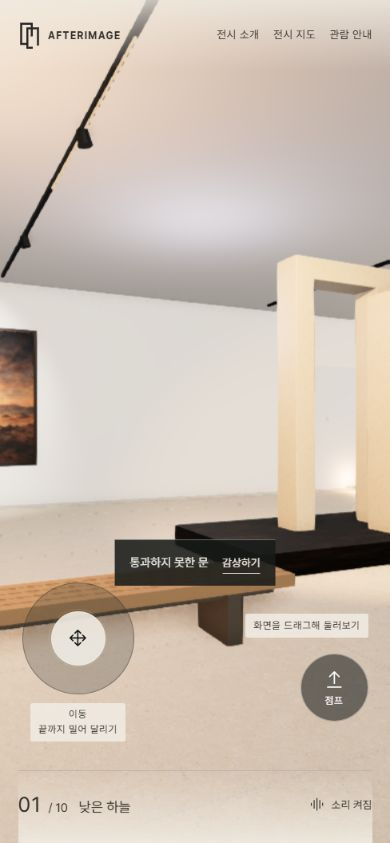
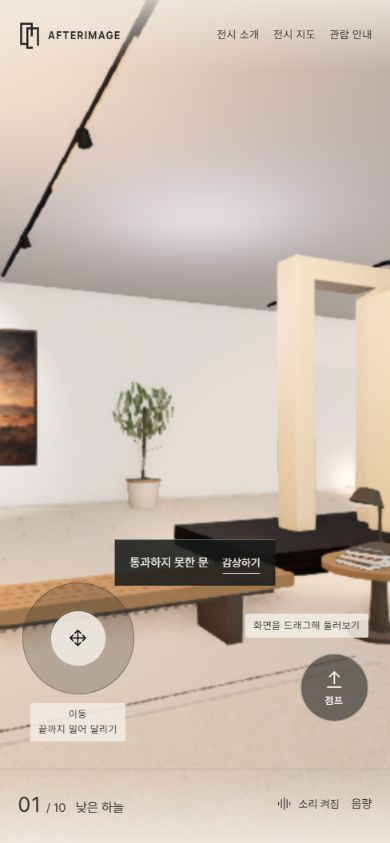
Enrich gallery rooms and corridors with plants and furnishings

diff --git a/src/spatial-furnishings.js b/src/spatial-furnishings.js
@@ -1,0 +1,188 @@
+import * as T from 'three';
+import {batchRoomArchitecture} from './static-room-batches';
+import {benchSeats} from './seating';
+
+const palettes=[0x92745a,0x71816b,0x977868,0x9e8765,0x718c94,0xb49f7d,0xa38b64,0x858874,0x87979a,0xa48b7e];
+const materialSets=new WeakMap();
+function decorMaterials(mats,index){
+ if(!materialSets.has(mats))materialSets.set(mats,new Map());
+ const cache=materialSets.get(mats),id=index%10;
+ if(!cache.has(id))cache.set(id,{
+  accent:new T.MeshStandardMaterial({color:palettes[id],roughness:.82}),
+  textile:new T.MeshStandardMaterial({color:id===4||id===8?0xaeb9b6:0xc7bbab,roughness:1}),
+  leaf:new T.MeshStandardMaterial({color:id===1?0x52754b:id===4||id===8?0x566d62:0x607149,roughness:.95,side:T.DoubleSide}),
+  paleLeaf:new T.MeshStandardMaterial({color:0x8a9570,roughness:.96,side:T.DoubleSide}),
+ });
+ return cache.get(id);
+}
+function groupAt(root,x,y,z,angle=0){const g=new T.Group();g.position.set(x,y,z);g.rotation.y=angle;root.add(g);return g;}
+function cylinder(root,r1,r2,h,x,y,z,material,segments=16){
+ const mesh=new T.Mesh(new T.CylinderGeometry(r1,r2,h,segments),material);mesh.position.set(x,y,z);mesh.receiveShadow=true;root.add(mesh);return mesh;
+}
+function rod(root,a,b,r,material){
+ const A=new T.Vector3(...a),B=new T.Vector3(...b),mesh=cylinder(root,r,r*.85,A.distanceTo(B),0,0,0,material,6);
+ mesh.position.copy(A).add(B).multiplyScalar(.5);mesh.quaternion.setFromUnitVectors(new T.Vector3(0,1,0),B.sub(A).normalize());return mesh;
+}
+function obstacle(obstacles,room,x,z,w,d){obstacles.push({x:room.x+x,z:room.z+z,w,d});}
+
+// Opaque shaped leaves avoid alpha sorting, texture downloads and extra lights.
+// The whole crown is a pair of instanced meshes, including the small plants.
+function foliage(root,style,height,radius,mats,decor,seed){
+ const shape=new T.Shape();shape.moveTo(0,0);
+ if(style==='reed'){shape.bezierCurveTo(-.09,.35,-.09,.7,0,1);shape.bezierCurveTo(.13,.66,.14,.32,0,0);}
+ else{shape.bezierCurveTo(-.34,.2,-.36,.63,0,1);shape.bezierCurveTo(.35,.67,.29,.22,0,0);}
+ const geometry=new T.ShapeGeometry(shape,3),count=style==='reed'?48:style==='fern'?64:112;
+ const leaves=[new T.InstancedMesh(geometry,decor.leaf,Math.ceil(count/2)),new T.InstancedMesh(geometry,decor.paleLeaf,Math.floor(count/2))],dummy=new T.Object3D();
+ const indices=[0,0];
+ for(let i=0;i<count;i++){
+  const angle=i*2.39996+seed*.4,t=(i%28)/27;
+  if(style==='reed'||style==='fern'){
+   const spread=radius*Math.sqrt((i%19)/18),length=height*(.56+(i%7)/15);
+   dummy.position.set(Math.cos(angle)*spread*.32,.02,Math.sin(angle)*spread*.32);
+   dummy.rotation.set(style==='fern'?.55+t*.9:.08+t*.46,angle,Math.sin(angle)*.35);
+   dummy.scale.set(style==='reed'?.22:.33,length,1);
+  }else{
+   const y=height*(.44+.53*t),spread=radius*Math.sqrt(Math.max(.08,1-Math.pow((t-.54)*1.7,2)))*(i%4===0?.52:1);
+   dummy.position.set(Math.cos(angle)*spread,y,Math.sin(angle)*spread);
+   dummy.rotation.set(Math.sin(angle)*.55,angle+.7,-.65+((i+seed)%9)/9*1.3);
+   dummy.scale.set(style==='olive'?.18:.37,style==='olive'?.34:.57,1);
+  }
+  dummy.updateMatrix();const variant=i%2;leaves[variant].setMatrixAt(indices[variant]++,dummy.matrix);
+ }
+ leaves.forEach(mesh=>{mesh.receiveShadow=true;mesh.frustumCulled=false;root.add(mesh);});
+ if(style==='olive'||style==='ficus'){
+  rod(root,[0,0,0],[.025,height*.83,.025],.035,mats.edge);
+  for(let i=0;i<7;i++){const a=i*2.39996+seed,y=height*(.38+i*.075);rod(root,[0,y*.8,0],[Math.cos(a)*radius*.76,y,Math.sin(a)*radius*.76],.013,mats.edge);}
+ }
+}
+function planter(root,x,z,style,mats,decor,cube,{scale=1,seed=0}={}){
+ const g=groupAt(root,x,0,z);g.name=`${style}-planter`;
+ const height=style==='fern'?.34:.66,radius=style==='fern'?.36:.4;
+ cylinder(g,radius,radius*.8,height,0,height/2,0,mats.ceramic);
+ cylinder(g,radius+.015,radius+.015,.045,0,height-.015,0,decor.accent);
+ cylinder(g,radius*.91,radius*.91,.018,0,height+.006,0,mats.soil);
+ const crown=groupAt(g,0,height+.02,0);
+ foliage(crown,style,style==='olive'?2.05:style==='ficus'?1.65:style==='reed'?1.13:.53,style==='olive'?.69:style==='ficus'?.72:.45,mats,decor,seed);
+ g.scale.setScalar(scale);batchRoomArchitecture(g);batchRoomArchitecture(crown);
+ return {group:g,width:(radius*2+.07)*scale,depth:(radius*2+.07)*scale};
+}
+function vase(root,x,y,z,size,material,mats,variant=0){
+ const profiles=[[[0,0],[.22,0],[.25,.12],[.2,.34],[.085,.46],[.09,.57]],[[0,0],[.13,0],[.18,.12],[.17,.33],[.14,.44]],[[0,0],[.2,0],[.27,.1],[.28,.16],[.18,.23]]];
+ const g=groupAt(root,x,y,z),points=profiles[variant%3].map(([r,h])=>new T.Vector2(r*size,h*size));
+ const mesh=new T.Mesh(new T.LatheGeometry(points,20),material);mesh.receiveShadow=true;g.add(mesh);
+ const [r,h]=profiles[variant%3].at(-1);cylinder(g,r*size*.8,r*size*.8,.009,0,h*size-.015,0,mats.soil);
+ return {group:g,height:h*size};
+}
+function books(root,x,y,z,cube,mats,decor,angle=0){
+ const g=groupAt(root,x,y,z,angle);
+ for(let i=0;i<3;i++){
+  const a=(i-1)*.12,cx=i*.025,cz=i*.016;
+  const part=(w,h,d,px,py,pz,mat)=>{const mesh=cube(g,w,h,d,cx+Math.cos(a)*px+Math.sin(a)*pz,i*.043+py,cz-Math.sin(a)*px+Math.cos(a)*pz,mat);mesh.rotation.y=a;};
+  part(.52,.035,.36,0,.018,0,mats.paper);
+  part(.54,.006,.38,0,.002,0,i===1?decor.accent:mats.edge);
+  part(.54,.006,.38,0,.038,0,i===1?decor.accent:mats.edge);
+  part(.012,.012,.24,-.16,.045,0,mats.paper);
+ }
+ batchRoomArchitecture(g);
+}
+function readingCorner(root,room,mats,decor,cube,obstacles){
+ const x=-1.55,z=2.6;
+ const rug=cube(root,4.65,.012,2.05,-4.35,.007,2.05,decor.textile);rug.castShadow=false;
+ for(const offset of [-.88,.88]){const border=cube(root,4.5,.002,.018,-4.35,.014,2.05+offset,mats.edge);border.castShadow=false;}
+ cylinder(root,.5,.5,.055,x,.61,z,mats.oak);cylinder(root,.055,.085,.57,x,.305,z,mats.edge);cylinder(root,.27,.27,.035,x,.025,z,mats.edge);
+ obstacle(obstacles,room,x,z,1.05,1.05);
+ books(root,x-.1,.64,z+.04,cube,mats,decor,.22);
+ // A small fixture glows through a basic material; it is not a GPU light.
+ const lamp=groupAt(root,x+.18,.64,z-.18);cylinder(lamp,.11,.11,.035,0,.018,0,mats.edge);
+ rod(lamp,[0,.03,0],[0,.48,0],.013,mats.edge);rod(lamp,[0,.48,0],[-.14,.56,0],.013,mats.edge);
+ const shade=cylinder(lamp,.09,.16,.14,-.14,.54,0,mats.edge);shade.rotation.z=-.28;
+ cylinder(lamp,.13,.13,.009,-.14,.468,0,mats.light);
+ batchRoomArchitecture(lamp);
+}
+function cabinet(root,room,mats,decor,cube,obstacles){
+ const side=![2,4,7,9].includes(room.id),x=side?room.w/2-.87:room.w/2-2.35,z=side?-4.45:room.d/2-.84,angle=side?Math.PI/2:0;
+ const g=groupAt(root,x,0,z,angle);g.name='material-and-catalogue-console';
+ const length=room.id%3===1?2.7:2.35,top=room.id%3===2?.84:1.02;
+ if(room.id%3===0){
+  cube(g,length,.14,.64,0,top-.07,0,mats.oak);
+  for(const px of [-length/2+.12,length/2-.12])cube(g,.07,top-.14,.52,px,(top-.14)/2,0,mats.edge);
+  cube(g,length-.18,.07,.53,0,.24,0,mats.oak);
+ }else if(room.id%3===1){
+  cube(g,length,top,.66,0,top/2,0,mats.ceramic);cube(g,length+.08,.055,.72,0,top+.025,0,mats.oak);
+  for(let i=0;i<18;i++)cube(g,.042,top-.14,.025,-length/2+.1+i*(length-.2)/17,top/2,.348,mats.oak);
+ }else{
+  for(const px of [-length/2+.22,length/2-.22])cube(g,.32,top-.12,.54,px,(top-.12)/2,0,mats.ceramic);
+  cube(g,length,.12,.68,0,top-.06,0,mats.ceramic);
+ }
+ books(g,-length*.27,top+.055,.01,cube,mats,decor,-.15);
+ const tall=vase(g,length*.19,top+.055,-.03,.85,decor.accent,mats,room.id%3);
+ vase(g,length*.36,top+.055,.03,.6,mats.ceramic,mats,(room.id+1)%3);
+ if(room.id%2===0){
+  const stem=groupAt(tall.group,0,tall.height,0);rod(stem,[0,0,0],[.1,.66,0],.007,mats.edge);rod(stem,[.05,.28,0],[-.15,.5,.035],.006,mats.edge);
+  batchRoomArchitecture(stem);
+ }else{
+  const sample=cube(g,.38,.075,.32,.1,top+.1,.06,mats.stone);sample.rotation.y=.25;
+ }
+ batchRoomArchitecture(g);
+ obstacle(obstacles,room,x,z,side?.76:length+.08,side?length+.08:.76);
+}
+
+export function furnishRoom(root,room,mats,cube,obstacles){
+ const decor=decorMaterials(mats,room.id),styles=['olive','reed','olive','ficus','olive','ficus','olive','ficus','reed','olive'];
+ readingCorner(root,room,mats,decor,cube,obstacles);
+ cabinet(root,room,mats,decor,cube,obstacles);
+ const hasNorthDoor=[1,2,4,7,8].includes(room.id);
+ const x=hasNorthDoor?room.w/2-1.3:-.35,z=-room.d/2+1.55;
+ const tall=planter(root,x,z,styles[room.id],mats,decor,cube,{scale:room.id===3?.86:1,seed:room.id});
+ obstacle(obstacles,room,x,z,tall.width,tall.depth);
+ const backX=-room.w/2+1.15,backZ=room.d/2-1.1;
+ const low=planter(root,backX,backZ,room.id%3===1?'reed':'fern',mats,decor,cube,{scale:room.id%3===1?.65:.95,seed:room.id+9});
+ obstacle(obstacles,room,backX,backZ,low.width,low.depth);
+}
+
+function passageRelief(root,x,z,alongX,length,side,index,mats,decor,cube){
+ const angle=alongX?(side===1?Math.PI:0):(side===1?-Math.PI/2:Math.PI/2);
+ const g=groupAt(root,x,1.98,z,angle);g.name='passage-material-study';
+ const width=Math.min(2.45,length-.65);
+ cube(g,width,1.42,.075,0,0,0,mats.edge);cube(g,width-.08,1.34,.055,0,0,.06,mats.paper);
+ for(let i=0;i<5;i++){
+  const h=.72+Math.sin(i*.8+index)*.26,bar=cube(g,.17,h,.065,(i-2)*width/7,Math.cos(i*.6+index)*.09,.13,i%2?mats.ceramic:decor.accent);bar.rotation.z=(i-2)*.045;
+ }
+ cube(g,width+.08,.065,.23,0,-.91,.08,mats.oak);
+ vase(g,-width*.26,-.875,.12,.47,mats.ceramic,mats,index%3);
+ vase(g,width*.22,-.875,.12,.6,decor.accent,mats,(index+1)%3);
+ batchRoomArchitecture(g);
+}
+
+export function furnishPassage(root,passage,mats,cube,obstacles,seats,index){
+ const decor=decorMaterials(mats,index),decoration=new T.Group();decoration.name=`passage-furnishings-${passage.a}-${passage.b}`;root.add(decoration);
+ let longest;
+ for(let i=0;i<passage.points.length-1;i++){
+  const A=passage.points[i],B=passage.points[i+1],alongX=A[1]===B[1],length=Math.hypot(B[0]-A[0],B[1]-A[1]),trimStart=i?2:0,trimEnd=i<passage.points.length-2?2:0,span=length-trimStart-trimEnd;
+  const sign=alongX?Math.sign(B[0]-A[0]):Math.sign(B[1]-A[1]),offset=(trimStart-trimEnd)*sign/2;
+  const x=(A[0]+B[0])/2+(alongX?offset:0),z=(A[1]+B[1])/2+(alongX?0:offset),side=index%2?1:-1;
+  // Work only within the solid wall segment; no objects at either elbow.
+  for(const s of [-1,1]){
+   if(alongX)cube(decoration,span-.35,1.02,.035,x,.52,z+s*1.84,mats.ceramic);
+   else cube(decoration,.035,1.02,span-.35,x+s*1.84,.52,z,mats.ceramic);
+   if(alongX)cube(decoration,span-.35,.035,.045,x,1.045,z+s*1.81,mats.oak);
+   else cube(decoration,.045,.035,span-.35,x+s*1.81,1.045,z,mats.oak);
+  }
+  passageRelief(decoration,x+(alongX?0:side*1.82),z+(alongX?side*1.82:0),alongX,span,side,index+i,mats,decor,cube);
+  if(!longest||span>longest.span)longest={x,z,alongX,span,side};
+ }
+ const {x,z,alongX,span,side}=longest;
+ const px=x+(alongX?Math.min(span*.25,1.8):-side*1.37),pz=z+(alongX?-side*1.37:Math.min(span*.25,1.8));
+ const plant=planter(decoration,px,pz,index%3===0?'ficus':'reed',mats,decor,cube,{scale:.65,seed:index+20});
+ obstacles.push({x:px,z:pz,w:plant.width,d:plant.depth});
+ if(span>=7){
+  // A shallow resting bench leaves more than three metres of clear width.
+  const bx=x+(alongX?-span*.23:side*1.49),bz=z+(alongX?side*1.49:-span*.23),angle=alongX?0:Math.PI/2,g=groupAt(decoration,bx,0,bz,angle);
+  for(const lx of [-.72,.72])cube(g,.12,.42,.42,lx,.21,0,mats.edge);
+  cube(g,1.9,.105,.48,0,.47,0,mats.oak);batchRoomArchitecture(g);
+  obstacles.push({x:bx,z:bz,w:alongX?1.9:.48,d:alongX?.48:1.9});
+  const start=seats.length,zone={id:passage.a,x:0,z:0};benchSeats(seats,zone,bx,bz,1.9,angle,[x,1.8,z]);seats.slice(start).forEach(seat=>{seat.zones=[passage.a,passage.b];});
+ }
+ batchRoomArchitecture(decoration);
+ return decoration;
+}

diff --git a/src/scene.js b/src/scene.js
@@ -99,7 +99,7 @@ export async function createExhibition(host,events,{signal}={}){
  const stairs=cinemaStairs(hall,mats,cube,obstacles,floorRects,label);
  const theatre=createCinema(scene,mats,cube,label,artLoader,floorRects,obstacles,seats);groups.push(theatre.root);
  buildingEnvelope(scene,mats,cube,obstacles);
- const corridorLights=galleryPassages(scene,passages,mats,cube,floorRects,obstacles);
+ const corridorLights=galleryPassages(scene,passages,mats,cube,floorRects,obstacles,seats);
  const bridgeLamp=new T.PointLight(0xffd6a1,10,10,2);bridgeLamp.position.set(10,10.1,-1.7);scene.add(bridgeLamp);corridorLights.push({a:ATRIUM_ID,b:CINEMA_ID,light:bridgeLamp});
  // One low-resolution planar reflection across the connected building, blended beneath tile material.
  const roomXs=rooms.map(r=>r.x),roomZs=rooms.map(r=>r.z),minX=Math.min(...roomXs),maxX=Math.max(...roomXs),minZ=Math.min(...roomZs),maxZ=Math.max(...roomZs);
@@ -142,7 +142,7 @@ export async function createExhibition(host,events,{signal}={}){
  function scanSeats(){
   nearSeat=null;
   if(!seated&&!jumpHeight&&!inspect){
-   const candidates=seats.filter(s=>s.zone===current&&Math.abs(s.floor-groundHeight)<.5&&Math.hypot(s.x-camera.position.x,s.z-camera.position.z)<2.25).sort((a,b)=>Math.hypot(a.x-camera.position.x,a.z-camera.position.z)-Math.hypot(b.x-camera.position.x,b.z-camera.position.z));
+   const candidates=seats.filter(s=>(s.zone===current||s.zones?.includes(current))&&Math.abs(s.floor-groundHeight)<.5&&Math.hypot(s.x-camera.position.x,s.z-camera.position.z)<2.25).sort((a,b)=>Math.hypot(a.x-camera.position.x,a.z-camera.position.z)-Math.hypot(b.x-camera.position.x,b.z-camera.position.z));
    nearSeat=candidates.find(unobstructedSeat)||null;
   }
   publishSeat();
@@ -164,7 +164,7 @@ export async function createExhibition(host,events,{signal}={}){
  function clickedSeat(ndc){
   if(seated)return false;
   ray.setFromCamera(ndc,camera);const point=new T.Vector3();
-  const hits=seats.filter(s=>s.zone===current&&Math.abs(s.floor-groundHeight)<.5&&Math.hypot(s.x-camera.position.x,s.z-camera.position.z)<2.25).map(s=>({seat:s,hit:ray.ray.intersectBox(s.bounds,point)?camera.position.distanceTo(point):Infinity})).sort((a,b)=>a.hit-b.hit);
+  const hits=seats.filter(s=>(s.zone===current||s.zones?.includes(current))&&Math.abs(s.floor-groundHeight)<.5&&Math.hypot(s.x-camera.position.x,s.z-camera.position.z)<2.25).map(s=>({seat:s,hit:ray.ray.intersectBox(s.bounds,point)?camera.position.distanceTo(point):Infinity})).sort((a,b)=>a.hit-b.hit);
   if(hits[0]?.hit<Infinity&&unobstructedSeat(hits[0].seat)){sit(hits[0].seat);return true;}return false;
  }
  function setHint(h){if(h!==oldHint){oldHint=h;events.hint(h);}}

diff --git a/src/building-architecture.js b/src/building-architecture.js
@@ -1,5 +1,6 @@
 import * as T from 'three';
 import {batchRoomArchitecture} from './static-room-batches';
+import {furnishPassage} from './spatial-furnishings';
 
 export function galleryFloor(root,room,mats,cube){
  const floor=cube(root,room.w,.15,room.d,0,-.085,0,mats.floor);
@@ -39,9 +40,9 @@ export function galleryWalls(root,room,openings,mats,cube){
  return obstacles;
 }
 
-export function galleryPassages(scene,passages,mats,cube,floorRects,obstacles){
+export function galleryPassages(scene,passages,mats,cube,floorRects,obstacles,seats){
  const lights=[];
- for(const passage of passages){
+ for(const [index,passage] of passages.entries()){
   const root=new T.Group();scene.add(root);
   const wall=(w,d,x,z)=>{cube(root,w,3.9,d,x,1.95,z,mats.wall);obstacles.push({x,z,w,d});};
   let longest=0,lightPoint;
@@ -67,7 +68,7 @@ export function galleryPassages(scene,passages,mats,cube,floorRects,obstacles){
     else wall(.25,4,x+(side==='west'?-2:2),z);
    }
   }
-  const light=new T.PointLight(0xfff0db,42,25,2);light.position.set(lightPoint[0],3.35,lightPoint[1]);root.add(light);lights.push({...passage,light});
+  const light=new T.PointLight(0xfff0db,42,25,2);light.position.set(lightPoint[0],3.35,lightPoint[1]);root.add(light);const decor=furnishPassage(root,passage,mats,cube,obstacles,seats,index);lights.push({...passage,light,decor});
   batchRoomArchitecture(root);
  }
  return lights;

diff --git a/src/lighting-rig.js b/src/lighting-rig.js
@@ -22,6 +22,8 @@ export function lightingRig(scene,groups,corridors){
  };
  return {shadowSpot:spots[0],activate(id){
   groups.forEach((group,index)=>{group.visible=index===id||neighbors[id].includes(index);});
+  // Only decoration is culled: the connected corridor shell stays continuous.
+  passages.forEach(p=>{if(p.decor)p.decor.visible=p.a===id||p.b===id||neighbors[id].includes(p.a)||neighbors[id].includes(p.b);});
   const active=fixtures[id].filter(f=>f.light.isPointLight);
   for(const neighbor of neighbors[id])active.push(...fixtures[neighbor].filter(f=>f.light.isPointLight&&f.light.userData.peek));
   active.push(...passages.filter(c=>c.a===id||c.b===id));

diff --git a/src/gallery-details.js b/src/gallery-details.js
@@ -1,6 +1,7 @@
 import * as T from 'three';
 import {benchSeats} from './seating';
 import {curateRoomWalls} from './gallery-wall-curation';
+import {furnishRoom} from './spatial-furnishings';
 
 // All details are static. Shared materials, merged timber and instanced leaves
 // add spatial texture without extra lights, animation or downloaded assets.
@@ -91,4 +92,5 @@ export function roomDetails(root,room,mats,cube,obstacles,seats){
  benchSeats(seats,room,-4,2,3.5,0,[room.x+1,2,room.z-.6]);
  obstacles.push({x:room.x-4,z:room.z+2,w:3.5,d:.7});
  curateRoomWalls(root,room,mats,cube);
+ furnishRoom(root,room,mats,cube,obstacles);
 }

diff --git a/ASSET-PROVENANCE.md b/ASSET-PROVENANCE.md
@@ -16,6 +16,7 @@ This project contains a fictional exhibition. Its artist names and artwork descr
 | Gallery furniture, oak louvers, olive plants and wall typography | Procedural Three.js geometry and canvas lettering authored for this project in src/gallery-details.js. No external model or additional image assets. |
 | Lobby contemporary wall artwork | Original image generated with OpenAI ImageGen for this project; source design/lobby-afterimage-source.png, production public/art/lobby-afterimage.webp. A decorative feature distinct from the twenty catalog artworks; no external artist work copied. |
 | Gallery wall reliefs and room guide panels | Project-authored Three.js relief geometry and Pretendard canvas lettering in src/gallery-wall-curation.js. Each room uses its own theme and the actual sculpture/painting names. |
+| Gallery room and corridor furnishings | Project-authored Three.js plants with instanced leaves, textile rugs, reading tables/lamps, catalogues, ceramic vessels, material consoles, corridor reliefs and rest benches in src/spatial-furnishings.js. No imported models, new image assets or external music. |
 | Second-floor screening hall concept | Generated with OpenAI ImageGen for this project; design/cinema-concept.png is a direction reference, not a runtime screenshot. |
 | “Afterglow / 여운의 문” film and poster | Original three-act Three.js motion artwork (luminous portals, folded metallic ribbons, expanding light fragments) with project-authored Web Audio felt-piano music, recorded in-browser with MediaRecorder as H.264/AAC MP4. The poster is a frame from the same artwork. No external video, stock music, paid generation service, or imported model. Authoring source: design/film-production. |
 | Second-floor hall, seats and stairs | Project-authored Three.js geometry; repeated chair parts use instanced meshes. |
